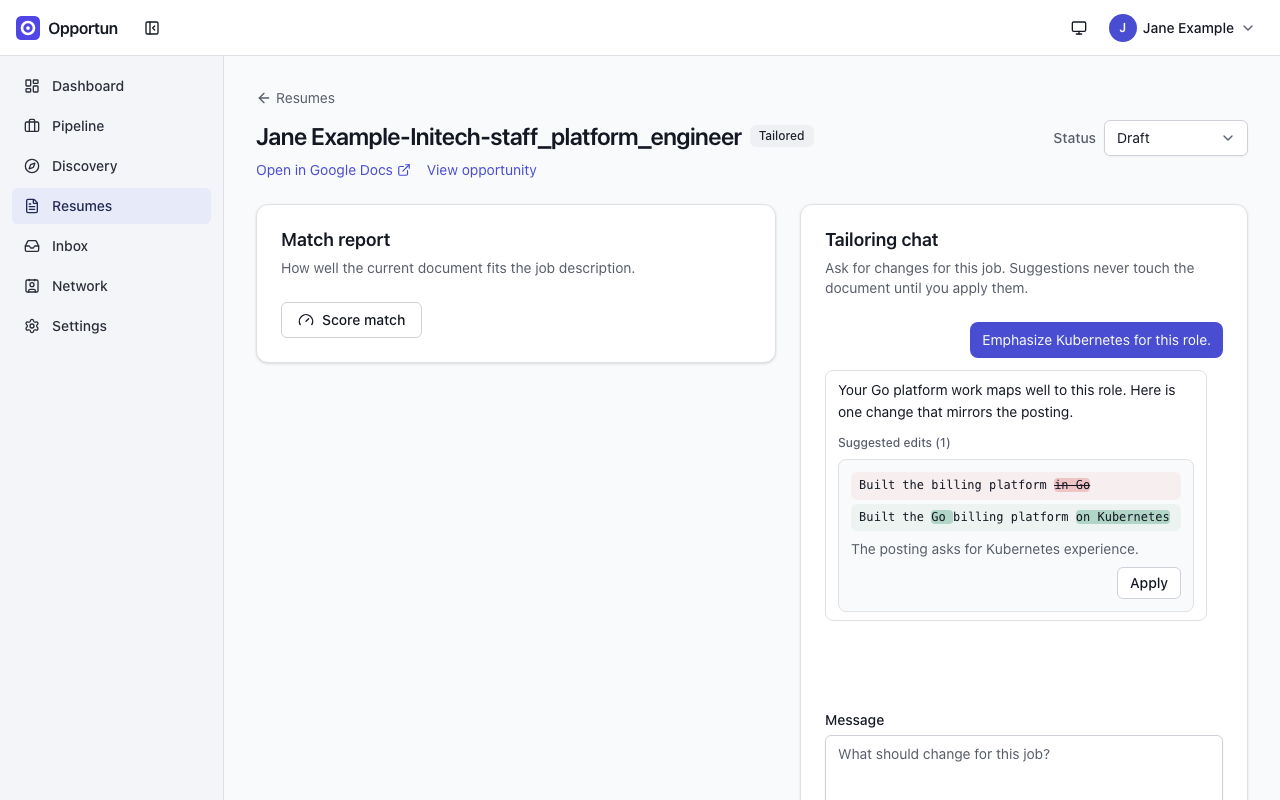
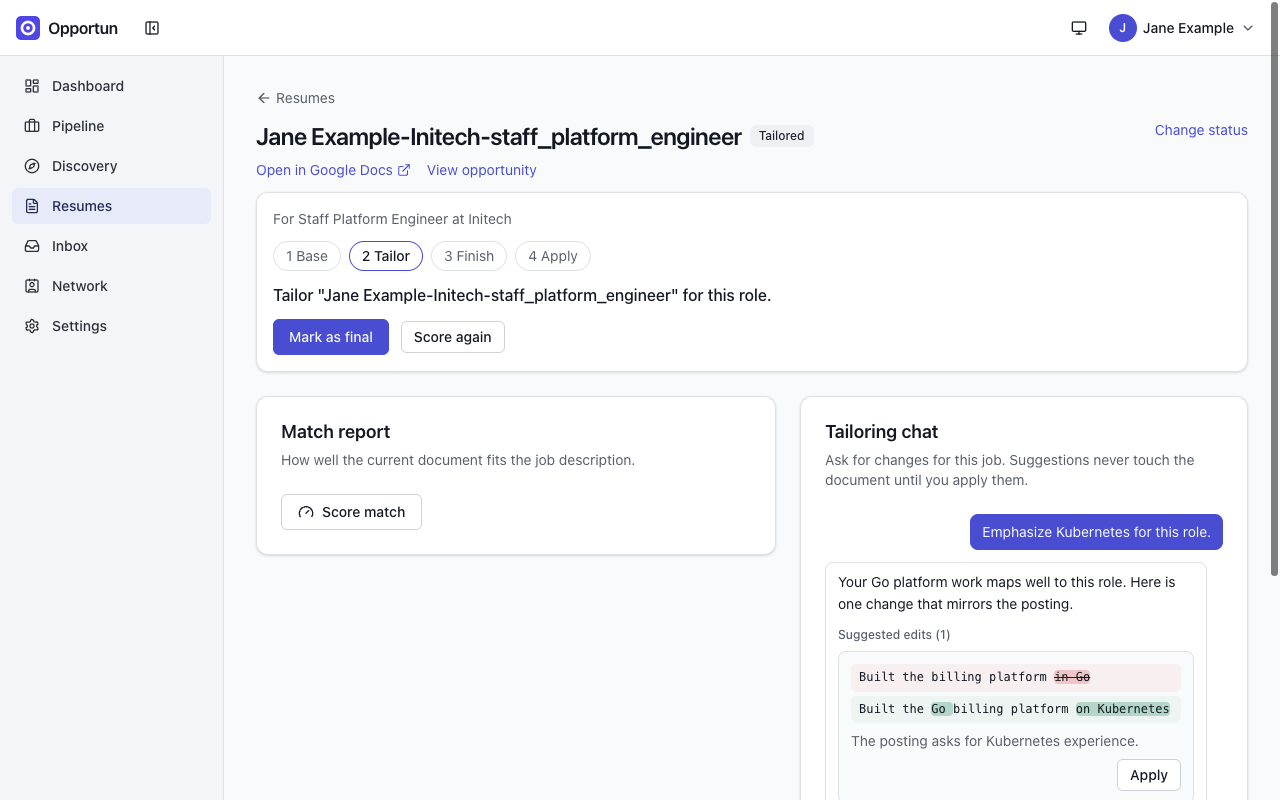
Docs: retake nine screenshots at main: the Settings side menu with Metrics and Telemetry, and the tailored copy's header (Closes #608)

diff --git a/docs/guide/resumes.md b/docs/guide/resumes.md
@@ -56,7 +56,7 @@ removal and an insertion with a one-line rationale.
 - Standing instructions you want applied every time (for example "never use the word
   'passionate'") go under **Settings > Resume rules**.
 
-![The tailoring workspace: a request, the assistant's reply and one suggested edit with an Apply button](images/resume-tailoring-chat.png)
+![The tailoring workspace of a tailored copy: the next-step strip at Tailor, the match report with a Score match button, and the chat with a request, the assistant's reply and one suggested edit with an Apply button](images/resume-tailoring-chat.png)
 
 _A suggested edit, shown as a diff. It is only a proposal until you press Apply._
 
@@ -75,7 +75,7 @@ a score out of 100 with a band (Excellent 90+, Strong 70+, Partial 50+, Stretch 
 one-line summary, missing keywords, and weak areas with a suggestion each. **Score again**
 after applying edits.
 
-![The match report: 82 out of 100, Strong match, with missing keywords and a weak area](images/resume-match-score.png)
+![The match report: 82 out of 100, Strong match, with missing keywords and a weak area, under the next-step strip and beside the chat](images/resume-match-score.png)
 
 _The match report next to the chat, after one applied edit._
 
